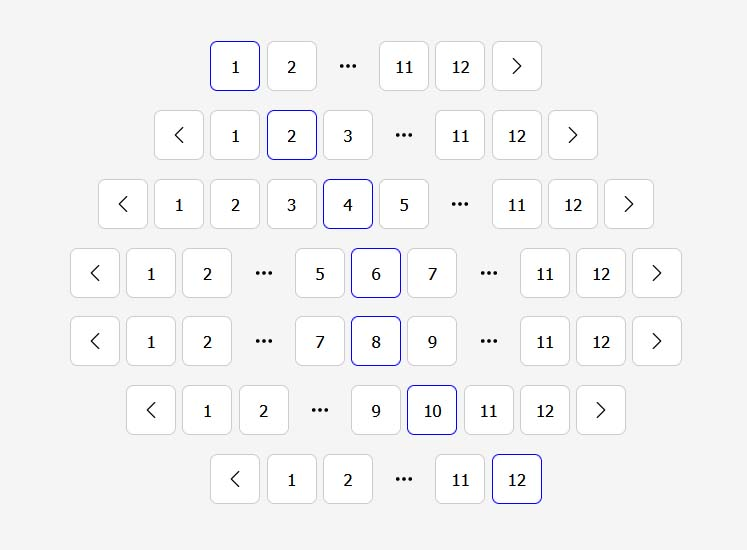
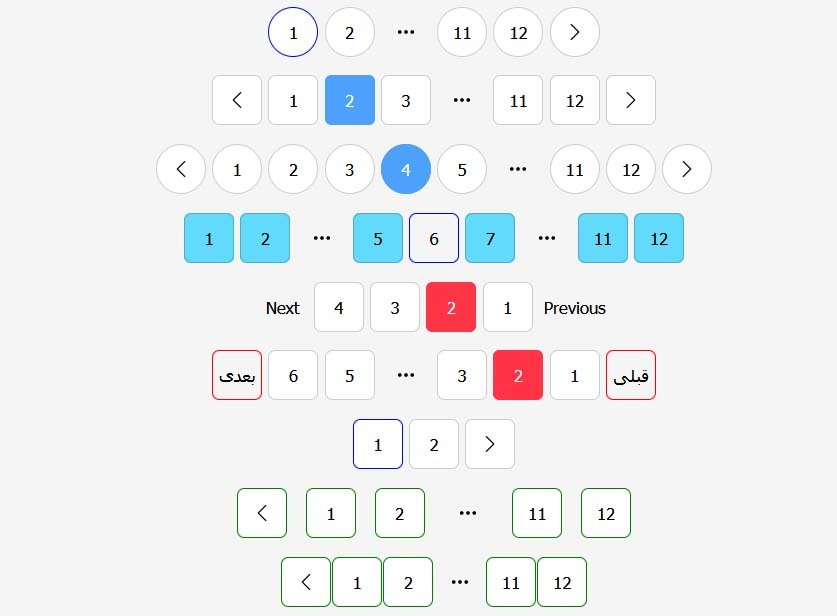
add props

diff --git a/src/index.tsx b/src/index.tsx
@@ -1,23 +1,25 @@
-import React, { FC } from "react";
-import styles from "./styles/styles.module.scss";
-type props = {
-  total_count?: number;
-  per_page?: number;
-  total_pages?: number;
-  current_page: any;
-  set_page: any;
-};
-const AF_Pagination: FC<props> = ({
-  per_page,
-  current_page, //1,2,3,...
-  set_page,
-  total_count,
-  total_pages,
-}) => {
+import React, { FC, useState } from "react";
+import stylesModule from "./styles/styles.module.scss";
+import { AF_Pagination_props } from "./models";
+import PrevBtn from "./PrevBtn";
+import NextBtn from "./NextBtn";
+import SingleBtn from "./SingleBtn";
+import Dots from "./Dots";
+import { createArray } from "./helper";
+
+const AF_Pagination: FC<AF_Pagination_props> = (props) => {
+  let {
+    per_page,
+    current_page, //1,2,3,...
+    total_count,
+    total_pages,
+    show_if_only_one_page,
+  } = props;
   let totalPage = 1;
   if (total_pages) totalPage = Math.ceil(total_pages);
   if (total_count && per_page) totalPage = Math.ceil(total_count / per_page);
-  if (totalPage <= 1) return null;
+  if (totalPage <= 0) return null;
+  if (totalPage === 1 && !show_if_only_one_page) return null;
   let valid_pages = createArray(totalPage);
   let allowedPages = [
     1,
@@ -29,93 +31,29 @@ const AF_Pagination: FC<props> = ({
     totalPage,
   ];
   let finalPages = valid_pages.filter((page) => allowedPages.includes(page));
+  let gap = props.gap != null ? props.gap : 5;
   return (
-    <div className={`${styles["pagination-container"]}`}>
-      {current_page > 1 && (
-        <button
-          className={`${styles["single-pagination-nav-button"]} ${styles["prev-page-button"]}`}
-          onClick={() => current_page > 1 && set_page(current_page - 1)}
-        >
-          <svg
-            xmlns="http://www.w3.org/2000/svg"
-            width="16"
-            height="16"
-            fill="currentColor"
-            viewBox="0 0 16 16"
-          >
-            <path
-              fill-rule="evenodd"
-              d="M11.354 1.646a.5.5 0 0 1 0 .708L5.707 8l5.647 5.646a.5.5 0 0 1-.708.708l-6-6a.5.5 0 0 1 0-.708l6-6a.5.5 0 0 1 .708 0z"
-            />
-          </svg>
-        </button>
-      )}
-      {finalPages.map((page) => (
-        <>
-          {current_page < totalPage - 3 && page === totalPage - 1 && (
-            <span className={`${styles["dots"]}`}>
-              <svg
-                xmlns="http://www.w3.org/2000/svg"
-                width="16"
-                height="16"
-                fill="currentColor"
-                viewBox="0 0 16 16"
-              >
-                <path d="M3 9.5a1.5 1.5 0 1 1 0-3 1.5 1.5 0 0 1 0 3zm5 0a1.5 1.5 0 1 1 0-3 1.5 1.5 0 0 1 0 3zm5 0a1.5 1.5 0 1 1 0-3 1.5 1.5 0 0 1 0 3z" />
-              </svg>
-            </span>
-          )}
-          <button
-            key={`af-pagination-page-${page}`}
-            className={`${styles["single-pagination-button"]} ${
-              styles["prev-page-button"]
-            } ${current_page === page ? styles["active"] : ""}`}
-            onClick={() => current_page !== page && set_page(page)}
-          >
-            {page}
-          </button>
-          {current_page > 4 && page === 2 && (
-            <span className={`${styles["dots"]}`}>
-              <svg
-                xmlns="http://www.w3.org/2000/svg"
-                width="16"
-                height="16"
-                fill="currentColor"
-                viewBox="0 0 16 16"
-              >
-                <path d="M3 9.5a1.5 1.5 0 1 1 0-3 1.5 1.5 0 0 1 0 3zm5 0a1.5 1.5 0 1 1 0-3 1.5 1.5 0 0 1 0 3zm5 0a1.5 1.5 0 1 1 0-3 1.5 1.5 0 0 1 0 3z" />
-              </svg>
-            </span>
-          )}
-        </>
-      ))}
-      {current_page !== totalPage && (
-        <button
-          className={`${styles["single-pagination-nav-button"]} ${styles["next-page-button"]}`}
-          onClick={() =>
-            current_page !== totalPage && set_page(current_page + 1)
-          }
-        >
-          <svg
-            xmlns="http://www.w3.org/2000/svg"
-            width="16"
-            height="16"
-            fill="currentColor"
-            viewBox="0 0 16 16"
-          >
-            <path
-              fill-rule="evenodd"
-              d="M4.646 1.646a.5.5 0 0 1 .708 0l6 6a.5.5 0 0 1 0 .708l-6 6a.5.5 0 0 1-.708-.708L10.293 8 4.646 2.354a.5.5 0 0 1 0-.708z"
-            />
-          </svg>
-        </button>
+    <div
+      dir={props.dir}
+      className={`${stylesModule["pagination-container"]}`}
+      style={{ gap: `${gap}px` }}
+    >
+      {!props.hideNavigation && current_page > 1 && <PrevBtn {...props} />}
+      {finalPages.map((page) => {
+        return (
+          <>
+            {current_page < totalPage - 3 && page === totalPage - 1 && (
+              <Dots {...props} />
+            )}
+            <SingleBtn {...props} page={page} />
+            {current_page > 4 && page === 2 && <Dots {...props} />}
+          </>
+        );
+      })}
+      {!props.hideNavigation && current_page !== totalPage && (
+        <NextBtn {...props} totalPage={totalPage} />
       )}
     </div>
   );
 };
 export default AF_Pagination;
-function createArray(length: number): number[] {
-  return Array.from({ length }, (_v, i) => i + 1);
-  //const myArray = createArray(6)
-  // Output: [1, 2, 3, 4, 5, 6]
-}

diff --git a/src/NextBtn.tsx b/src/NextBtn.tsx
@@ -1,0 +1,60 @@
+import React, { FC, useState } from "react";
+import stylesModule from "./styles/styles.module.scss";
+import { AF_Pagination_props } from "./models";
+type props = { totalPage: number };
+const NextBtn: FC<AF_Pagination_props & props> = (props) => {
+  const [hovered, set_hovered] = useState<boolean>(false);
+  let styles = props.style ? props.style : {};
+  if (hovered && props.hoverStyles)
+    styles = { ...styles, ...props.hoverStyles };
+  if (props.navStyles) styles = { ...styles, ...props.navStyles };
+  if (hovered && props.navHoverStyles)
+    styles = { ...styles, ...props.navHoverStyles };
+  return (
+    <button
+      onMouseEnter={() => set_hovered(true)}
+      onMouseLeave={() => set_hovered(false)}
+      style={styles}
+      className={`${stylesModule["single-pagination-nav-button"]} ${stylesModule["next-page-button"]}`}
+      onClick={() =>
+        props.current_page !== props.totalPage &&
+        props.set_page(props.current_page + 1)
+      }
+    >
+      {props.next_element ? (
+        props.next_element
+      ) : (
+        <>
+          {props.dir === "rtl" ? (
+            <svg
+              xmlns="http://www.w3.org/2000/svg"
+              width="16"
+              height="16"
+              fill="currentColor"
+              viewBox="0 0 16 16"
+            >
+              <path
+                fill-rule="evenodd"
+                d="M11.354 1.646a.5.5 0 0 1 0 .708L5.707 8l5.647 5.646a.5.5 0 0 1-.708.708l-6-6a.5.5 0 0 1 0-.708l6-6a.5.5 0 0 1 .708 0z"
+              />
+            </svg>
+          ) : (
+            <svg
+              xmlns="http://www.w3.org/2000/svg"
+              width="16"
+              height="16"
+              fill="currentColor"
+              viewBox="0 0 16 16"
+            >
+              <path
+                fill-rule="evenodd"
+                d="M4.646 1.646a.5.5 0 0 1 .708 0l6 6a.5.5 0 0 1 0 .708l-6 6a.5.5 0 0 1-.708-.708L10.293 8 4.646 2.354a.5.5 0 0 1 0-.708z"
+              />
+            </svg>
+          )}
+        </>
+      )}
+    </button>
+  );
+};
+export default NextBtn;

diff --git a/src/PrevBtn.tsx b/src/PrevBtn.tsx
@@ -1,0 +1,58 @@
+import React, { FC, useState } from "react";
+import stylesModule from "./styles/styles.module.scss";
+import { AF_Pagination_props } from "./models";
+const PrevBtn: FC<AF_Pagination_props> = (props) => {
+  const [hovered, set_hovered] = useState<boolean>(false);
+  let styles = props.style ? props.style : {};
+  if (hovered && props.hoverStyles)
+    styles = { ...styles, ...props.hoverStyles };
+  if (props.navStyles) styles = { ...styles, ...props.navStyles };
+  if (hovered && props.navHoverStyles)
+    styles = { ...styles, ...props.navHoverStyles };
+  return (
+    <button
+      onMouseEnter={() => set_hovered(true)}
+      onMouseLeave={() => set_hovered(false)}
+      style={styles}
+      className={`${stylesModule["single-pagination-nav-button"]} ${stylesModule["prev-page-button"]}`}
+      onClick={() =>
+        props.current_page > 1 && props.set_page(props.current_page - 1)
+      }
+    >
+      {props.prev_element ? (
+        props.prev_element
+      ) : (
+        <>
+          {props.dir === "rtl" ? (
+            <svg
+              xmlns="http://www.w3.org/2000/svg"
+              width="16"
+              height="16"
+              fill="currentColor"
+              viewBox="0 0 16 16"
+            >
+              <path
+                fill-rule="evenodd"
+                d="M4.646 1.646a.5.5 0 0 1 .708 0l6 6a.5.5 0 0 1 0 .708l-6 6a.5.5 0 0 1-.708-.708L10.293 8 4.646 2.354a.5.5 0 0 1 0-.708z"
+              />
+            </svg>
+          ) : (
+            <svg
+              xmlns="http://www.w3.org/2000/svg"
+              width="16"
+              height="16"
+              fill="currentColor"
+              viewBox="0 0 16 16"
+            >
+              <path
+                fill-rule="evenodd"
+                d="M11.354 1.646a.5.5 0 0 1 0 .708L5.707 8l5.647 5.646a.5.5 0 0 1-.708.708l-6-6a.5.5 0 0 1 0-.708l6-6a.5.5 0 0 1 .708 0z"
+              />
+            </svg>
+          )}
+        </>
+      )}
+    </button>
+  );
+};
+export default PrevBtn;

diff --git a/src/SingleBtn.tsx b/src/SingleBtn.tsx
@@ -1,0 +1,32 @@
+import React, { FC, useState } from "react";
+import stylesModule from "./styles/styles.module.scss";
+import { AF_Pagination_props } from "./models";
+type props = {
+  page: number;
+};
+const SingleBtn: FC<AF_Pagination_props & props> = (props) => {
+  const [hovered, set_hovered] = useState<boolean>(false);
+  let styles = props.style ? props.style : {};
+  const is_active = props.current_page === props.page;
+  if (is_active && props.activeStyles)
+    styles = { ...styles, ...props.activeStyles };
+  if (hovered && props.hoverStyles)
+    styles = { ...styles, ...props.hoverStyles };
+  return (
+    <button
+      onMouseEnter={() => set_hovered(true)}
+      onMouseLeave={() => set_hovered(false)}
+      style={styles}
+      key={`af-pagination-page-${props.page}`}
+      className={`${stylesModule["single-pagination-button"]} ${
+        stylesModule["prev-page-button"]
+      } ${is_active ? stylesModule["active"] : ""}`}
+      onClick={() =>
+        props.current_page !== props.page && props.set_page(props.page)
+      }
+    >
+      {props.page}
+    </button>
+  );
+};
+export default SingleBtn;

diff --git a/src/Dots.tsx b/src/Dots.tsx
@@ -1,0 +1,20 @@
+import React, { FC } from "react";
+import stylesModule from "./styles/styles.module.scss";
+import { AF_Pagination_props } from "./models";
+const Dots: FC<AF_Pagination_props> = (props) => {
+  if (props.dots_element) return props.dots_element;
+  return (
+    <span className={`${stylesModule["dots"]}`}>
+      <svg
+        xmlns="http://www.w3.org/2000/svg"
+        width="16"
+        height="16"
+        fill="currentColor"
+        viewBox="0 0 16 16"
+      >
+        <path d="M3 9.5a1.5 1.5 0 1 1 0-3 1.5 1.5 0 0 1 0 3zm5 0a1.5 1.5 0 1 1 0-3 1.5 1.5 0 0 1 0 3zm5 0a1.5 1.5 0 1 1 0-3 1.5 1.5 0 0 1 0 3z" />
+      </svg>
+    </span>
+  );
+};
+export default Dots;

diff --git a/src/models.ts b/src/models.ts
@@ -1,0 +1,21 @@
+import { CSSProperties, ReactElement } from "react";
+
+export type AF_Pagination_props = {
+  current_page: any;
+  set_page: any;
+  total_pages?: number;
+  total_count?: number;
+  per_page?: number;
+  activeStyles?: CSSProperties;
+  hoverStyles?: CSSProperties;
+  navStyles?: CSSProperties;
+  navHoverStyles?: CSSProperties;
+  style?: CSSProperties;
+  show_if_only_one_page?: boolean;
+  next_element?: ReactElement;
+  prev_element?: ReactElement;
+  dots_element?: ReactElement;
+  dir?: "rtl" | "ltr";
+  gap?: number;
+  hideNavigation?: boolean;
+};

diff --git a/src/helper.ts b/src/helper.ts
@@ -1,0 +1,5 @@
+export function createArray(length: number): number[] {
+  return Array.from({ length }, (_v, i) => i + 1);
+  //const myArray = createArray(6)
+  // Output: [1, 2, 3, 4, 5, 6]
+}
